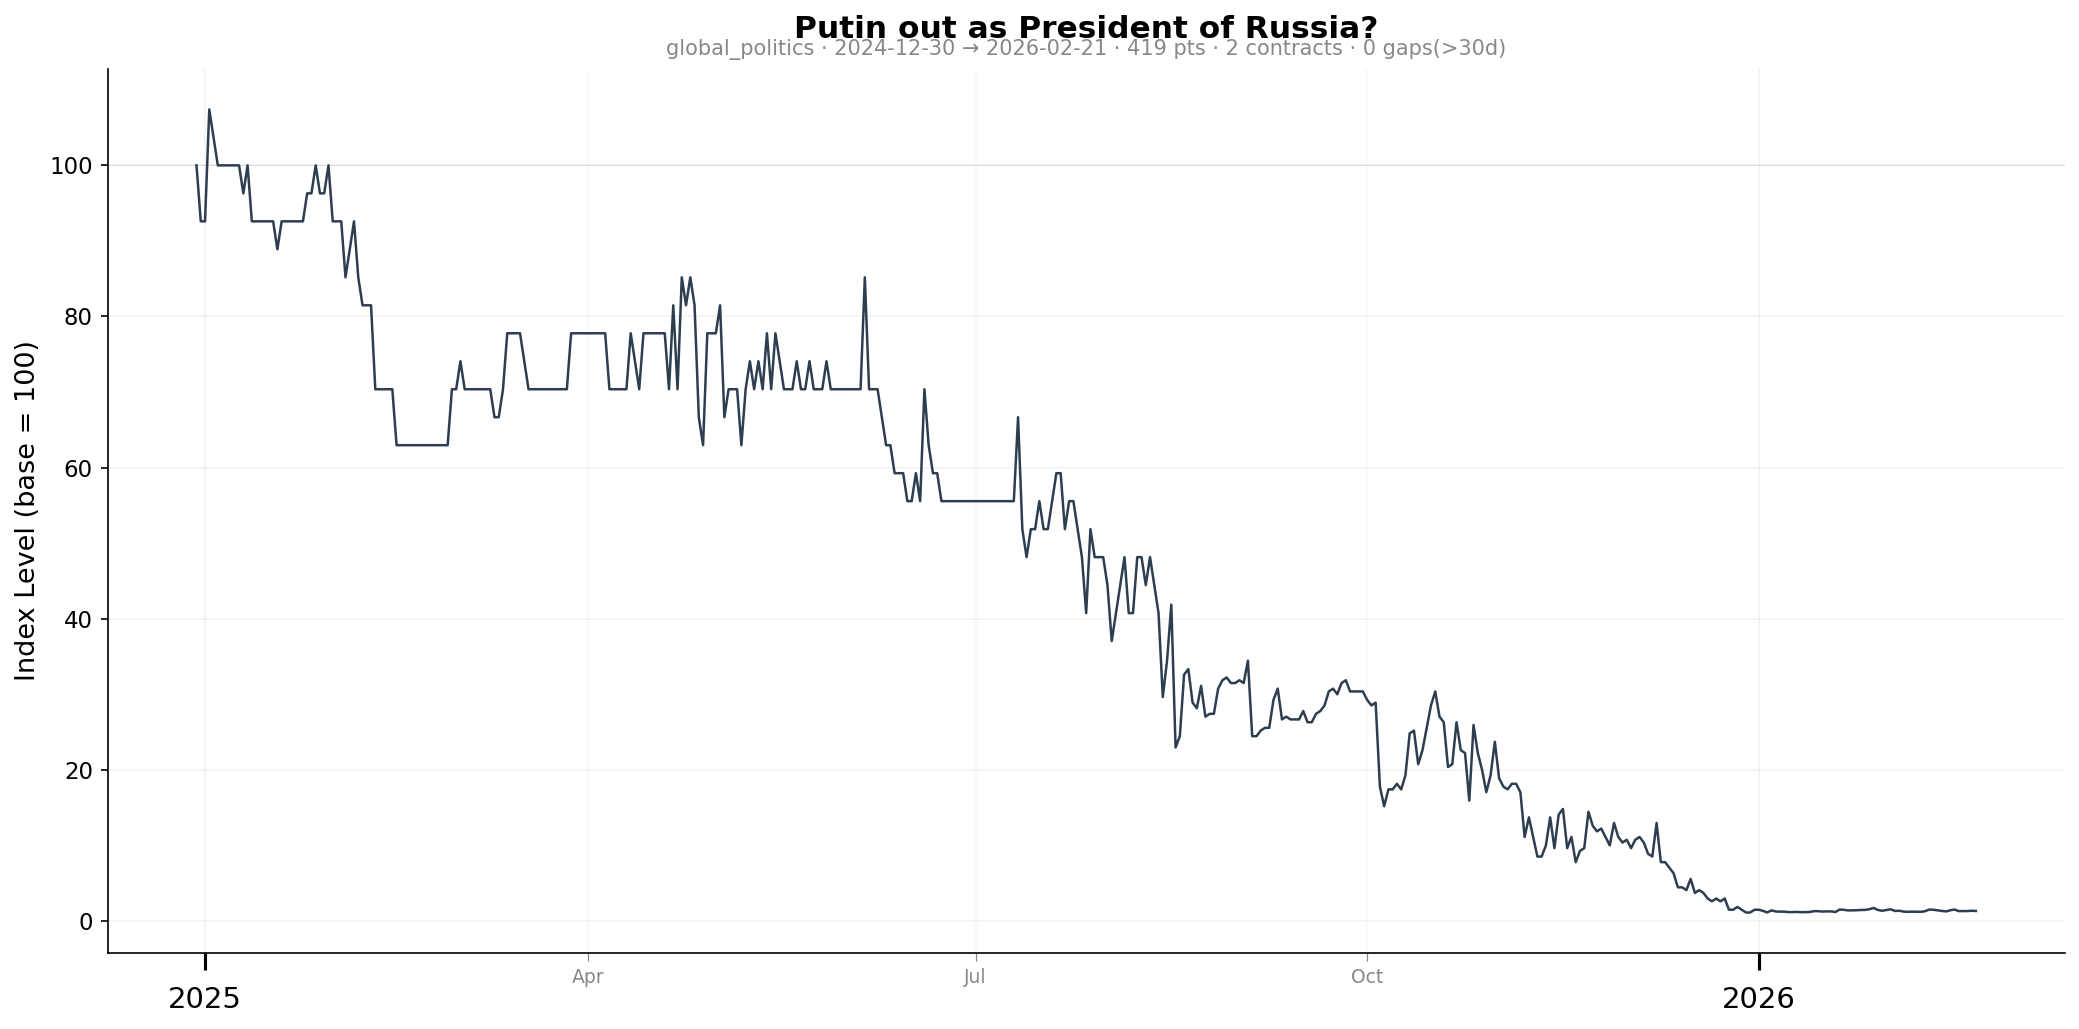
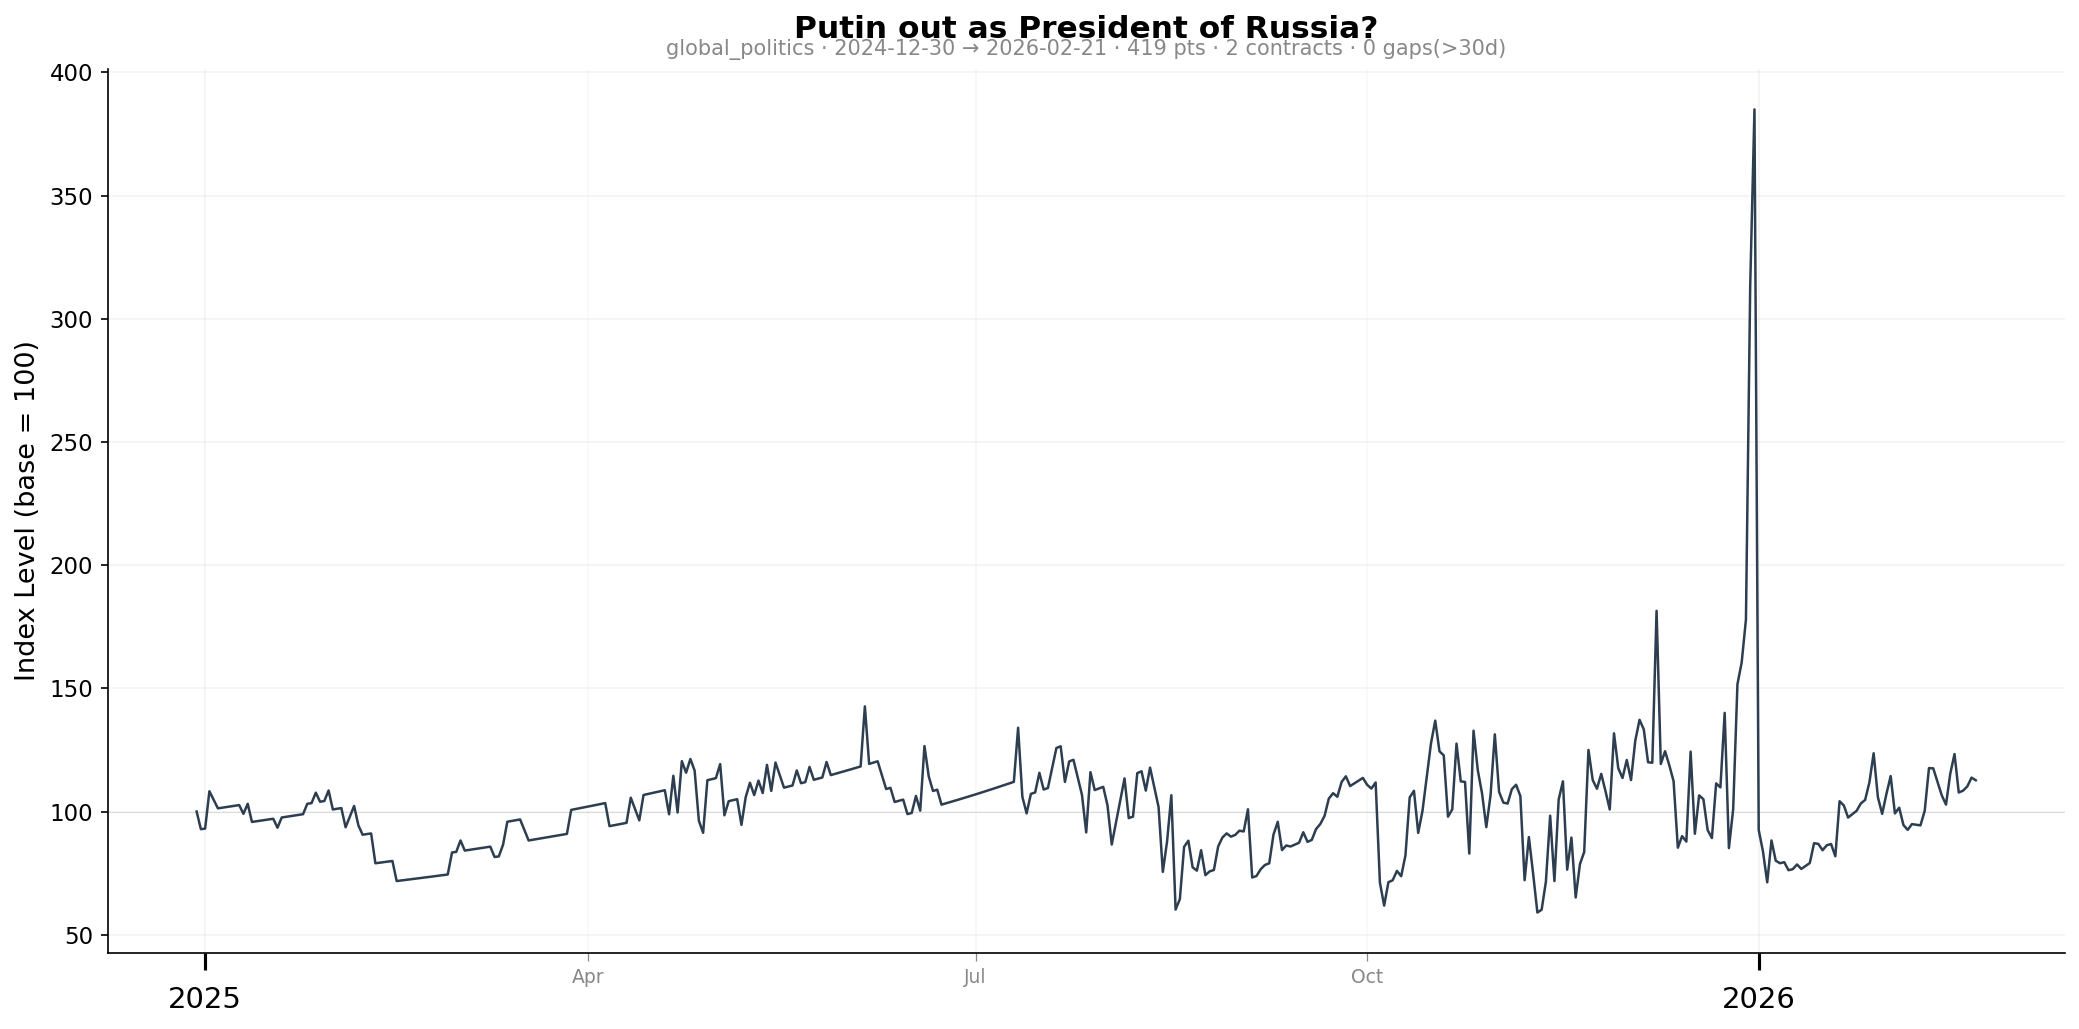
feat: annualized hazard rate normalization, no more zero-crash at contract expiry

diff --git a/run.py b/run.py
@@ -431,20 +431,23 @@ def main():
         data = ts[ts['ticker_id'] == tid].sort_values('date').reset_index(drop=True)
         m = ticker_meta[tid]
         
-        # Build index (base 100) with reset at each contract roll
-        # Each contract segment starts at 100, chained multiplicatively
-        index_values = pd.Series(dtype=float, index=data.index)
-        cusip_groups = (data['active_cusip'] != data['active_cusip'].shift(1)).cumsum()
-        chain_level = 100.0
+        # Build index (base 100) using annualized hazard rate
+        # P_annual = 1 - (1 - P)^(365 / days_to_expiry)
+        # This normalizes across different contract horizons and doesn't crash
+        # to zero at expiry just because a contract resolved "No"
+        data_dates = pd.to_datetime(data['date'])
+        data_ends = pd.to_datetime(data['cusip_end_date'], errors='coerce')
         
-        for seg_id, seg_data in data.groupby(cusip_groups):
-            seg_first = seg_data['price'].iloc[0]
-            if seg_first <= 0:
-                seg_first = seg_data['price'][seg_data['price'] > 0].iloc[0] if (seg_data['price'] > 0).any() else 0.01
-            seg_index = chain_level * seg_data['price'] / seg_first
-            index_values.loc[seg_data.index] = seg_index
-            # Chain: next segment starts where this one's last value is
-            chain_level = seg_index.iloc[-1]
+        days_to_expiry = (data_ends - data_dates).dt.days.clip(lower=1)
+        raw_p = data['price'].clip(lower=0.0001, upper=0.9999)
+        
+        # Annualized probability
+        annualized = 1.0 - (1.0 - raw_p) ** (365.0 / days_to_expiry)
+        annualized = annualized.clip(lower=0.0001)
+        
+        # Build index from annualized rate
+        first_ann = annualized.iloc[0]
+        index_values = 100.0 * annualized / first_ann
         
         # Insert NaN at display gaps to break lines
         plot_dates, plot_values = insert_gap_nans(data['date'], index_values, gap_days=DISPLAY_GAP_THRESHOLD_DAYS)
